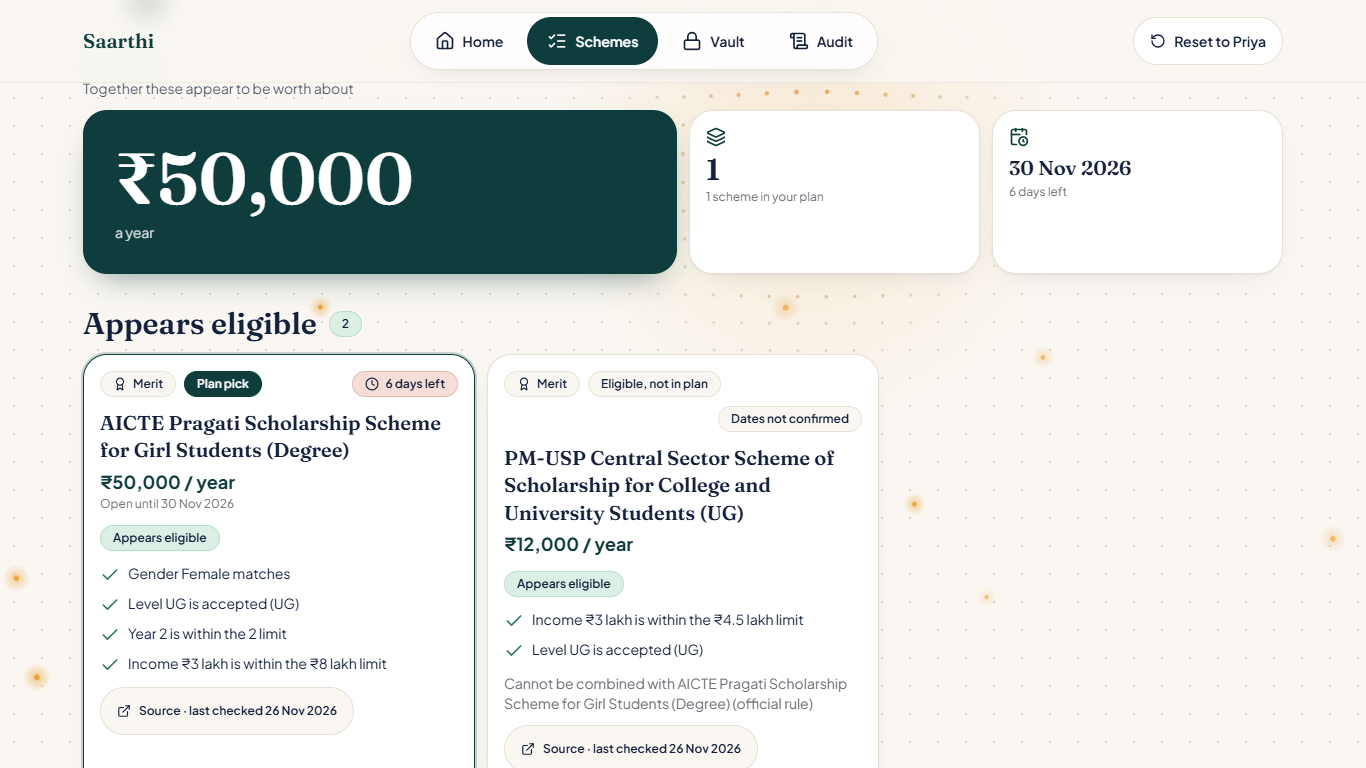
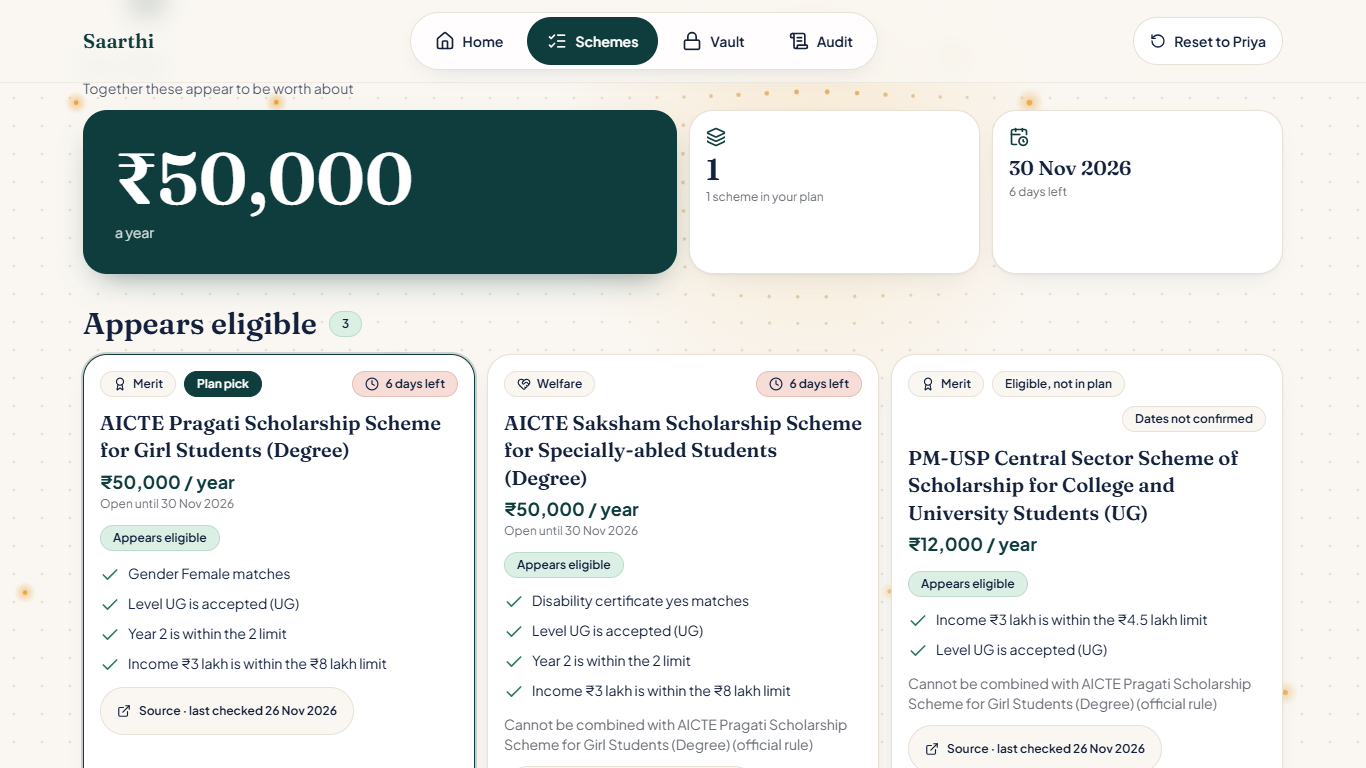
feat(web): sample student variant and clearer reason text

diff --git a/web/components/results/scheme-card.tsx b/web/components/results/scheme-card.tsx
@@ -4,6 +4,7 @@ import { Chip, type ChipTone } from "@/components/ui/chip";
 import { DaysChip } from "@/components/results/days-chip";
 import { HowToQualify } from "@/components/results/how-to-qualify";
 import { SourceChip } from "@/components/results/source-chip";
+import { reasonText } from "@/lib/reason-text";
 import { formatDate, formatInr } from "@/lib/format";
 import { closeDate } from "@/lib/dates";
 import type { SchemeView } from "@/lib/results-model";
@@ -88,7 +89,7 @@ export function SchemeCard({ view, t }: { view: SchemeView; t: T }) {
               >
                 <Icon className={`mt-0.5 size-5 shrink-0 ${className}`} aria-hidden />
                 <span className="sr-only">{t(label)}: </span>
-                <span>{reason.detail}</span>
+                <span>{reasonText(reason, t)}</span>
               </li>
             );
           })}

diff --git a/web/lib/reason-text.ts b/web/lib/reason-text.ts
@@ -1,0 +1,15 @@
+import type { Reason } from "@/lib/types";
+
+type T = (path: string, vars?: Record<string, string | number>) => string;
+
+// The engine words a failed yes/no criterion as "<Label> no does not match the required yes". The
+// UI shows "Needs <label>" instead. Only the display changes; the engine's reason data does not.
+const REQUIRED_YES = /^(.+?) (?:yes|no) does not match the required yes$/i;
+
+export function reasonText(reason: Reason, t: T): string {
+  if (reason.status === "failed" && REQUIRED_YES.test(reason.detail)) {
+    if (reason.field === "disability") return t("results.needsDisability");
+    return t("results.needs", { label: t(`fields.${reason.field}`).toLowerCase() });
+  }
+  return reason.detail;
+}

diff --git a/web/components/results/how-to-qualify.tsx b/web/components/results/how-to-qualify.tsx
@@ -1,4 +1,5 @@
 import { Square, SquareCheck } from "lucide-react";
+import { reasonText } from "@/lib/reason-text";
 import { Chip } from "@/components/ui/chip";
 import type { EligibilityResult, Scheme } from "@/lib/types";
 
@@ -54,7 +55,7 @@ export function HowToQualify({ scheme, result, t }: HowToQualifyProps) {
                 }
                 aria-hidden
               />
-              <span>{reason.detail}</span>
+              <span>{reasonText(reason, t)}</span>
             </li>
           );
         })}

diff --git a/context/decisions-and-progress.md b/context/decisions-and-progress.md
@@ -29,7 +29,7 @@ Update this file when a task finishes or a decision is made. Newest entries at t
 | D21 | 2026-11-24 | Voice and languages in the app. The mic records in the browser (MediaRecorder, max 10 s, audio kept in memory only), sends it to `/voice/transcribe`, then `/slots/extract` for the field being asked; a value found is proposed with `source: "voice"`, so the read-back still asks the student to confirm. The speaker icon plays the message through `/voice/speak`. With mocks on, voice is off and tapping works as before. UI text now in Hindi and Kannada (`i18n/hi.json`, `i18n/kn.json`, nav labels included); choice chips show translated labels but keep English labels as keys for `answer-config.ts`. Scheme names and engine reasons stay English, and the language note says so. `web/.env.example` now points at the real API. Fixed: the speech bubble's typing overlay covered the speaker button and swallowed clicks (`pointer-events-none`). | Tested in headless Chrome with spoken Kannada and Hindi answers fed through a fake microphone: transcript, read-back, confirm, results and read-aloud all worked with no console errors. Touches column-1 files (interview page, guide panel, mic button, speech bubble, navs, session, i18n); review before merging. |
 | D22 | 2026-11-26 | Scheme dataset integrated. `data/schemes.json` holds 10 sourced schemes from D1 (6 central, 4 Karnataka; 7 below 0.7 confidence). The API reads it by default (the EXAMPLE fixture path is gone from `.env.example`). New optional field `exclusivity_source` (other scheme id to source URL) marks the exclusive pairs an official source states; the optimiser says "official rule" only for those and "inferred from the scheme guidelines, check the notice" otherwise (4 central SC and Karnataka pairs are inferred). `exclusivity_group` removed (nothing read it). Missing labels fall back to English, then to a readable word, never a raw key; the guide has singular and unconfirmed-amount wording; the vault checklist falls back to schemes the student may still qualify for. In API mode "Start as Ravi" is an SC student with a 5 lakh income, found by searching 11,520 profiles with the engine (best possible 4 of 6 requirements: no near-miss is ever fixable and no window is closed in the data); mock mode keeps its OBC Ravi. | Reviewed in `docs/data-review-2026-11-26.md`. The Ravi plan has three Karnataka schemes whose amounts are unknown, so its total reads "Amounts not confirmed yet". |
 | D23 | 2026-11-26 | Fixable near-miss, exact rule. A scheme's `near_miss` is `fixable: true` only when no criterion has failed and at least one criterion is unknown (verdict `unknown`): then `near_miss.field` is the first unanswered field and `gap` reads "Answer this question to find out: <the engine's question>" (or "Answer these questions to find out: <q1>; <q2>" for several). Any scheme with a failed criterion stays `fixable: false` (income or marks within the near-miss margin) or has no near-miss, even if other fields are unanswered. Verdicts, the optimiser and the question picker are unchanged. Document-based gaps are not modelled. | The "You can fix this" card now appears when answering a question could settle a scheme, instead of never. Engine tests cover one unknown field, several, a failed criterion, a failed criterion plus an unknown field, and a fully answered profile. |
-| D24 | 2026-11-26 | New API-mode sample student: **Priya** (F, OBC, Karnataka, UG year 2, govt college, income ₹3,00,000, marks 65%, no minority, no disability). `tools/persona_search.py` searched 21,600 synthetic profiles over `data/schemes.json` with the real engine and ranked them by: (a) every plan scheme has a known amount, (b) plan ≥ 2 schemes, (c) ≥ 2 eligible, (d) ≥ 1 Almost eligible, (e) ≥ 1 Not eligible, (f) ≥ 1 Closed if any window is closed on the demo date, (g) ordinary student. **No profile meets both (a) and (b)**: every plan with 2 or more schemes contains a Karnataka SSP scheme whose amount is unknown. Priya meets (a), (c), (d), (e); (b) fails (plan is Pragati only, ₹50,000/year, a real number); (f) is vacuous (no window is closed on 24 Nov). Re-run the script after the dataset gains amounts. Mock mode keeps Ravi (OBC, male) because the mock results and tests are written for him. The name comes from the i18n keys `persona.mock` / `persona.api`. | The previous API-mode student (Ravi) had a plan of one scheme and no Almost eligible card, so the demo story was thin. A student with a confirmed rupee total makes the plan hero show a real number. |
+| D24 | 2026-11-26 | New API-mode sample student: **Priya** (F, OBC, Karnataka, UG year 2, govt college, income ₹3,00,000, marks 65%, no minority, **disability certificate yes**; changed from "no" in Task 20 after testing variants A–D: income ₹2.4L or ₹3L, disability yes or no, marks 65 or 78.5%. All four give the same plan, Pragati only at ₹50,000, because Pragati is exclusive with every other eligible scheme (AICTE 2010 guideline for Saksham, the CSSS guideline for PM-USP, the myScheme page for PM-YASASVI). Only the ₹3L + disability variant has an Almost eligible card (PM-YASASVI, income above the ₹2.5L limit) and 3 eligible schemes, so it won). `tools/persona_search.py` searched 21,600 synthetic profiles over `data/schemes.json` with the real engine and ranked them by: (a) every plan scheme has a known amount, (b) plan ≥ 2 schemes, (c) ≥ 2 eligible, (d) ≥ 1 Almost eligible, (e) ≥ 1 Not eligible, (f) ≥ 1 Closed if any window is closed on the demo date, (g) ordinary student. **No profile meets both (a) and (b)**: every plan with 2 or more schemes contains a Karnataka SSP scheme whose amount is unknown. Priya meets (a), (c), (d), (e); (b) fails (plan is Pragati only, ₹50,000/year, a real number); (f) is vacuous (no window is closed on 24 Nov). Re-run the script after the dataset gains amounts. Mock mode keeps Ravi (OBC, male) because the mock results and tests are written for him. The name comes from the i18n keys `persona.mock` / `persona.api`. | The previous API-mode student (Ravi) had a plan of one scheme and no Almost eligible card, so the demo story was thin. A student with a confirmed rupee total makes the plan hero show a real number. |
 
 ## Open decisions
 1. Final project name (Saarthi is a placeholder; check for existing products with that name).
